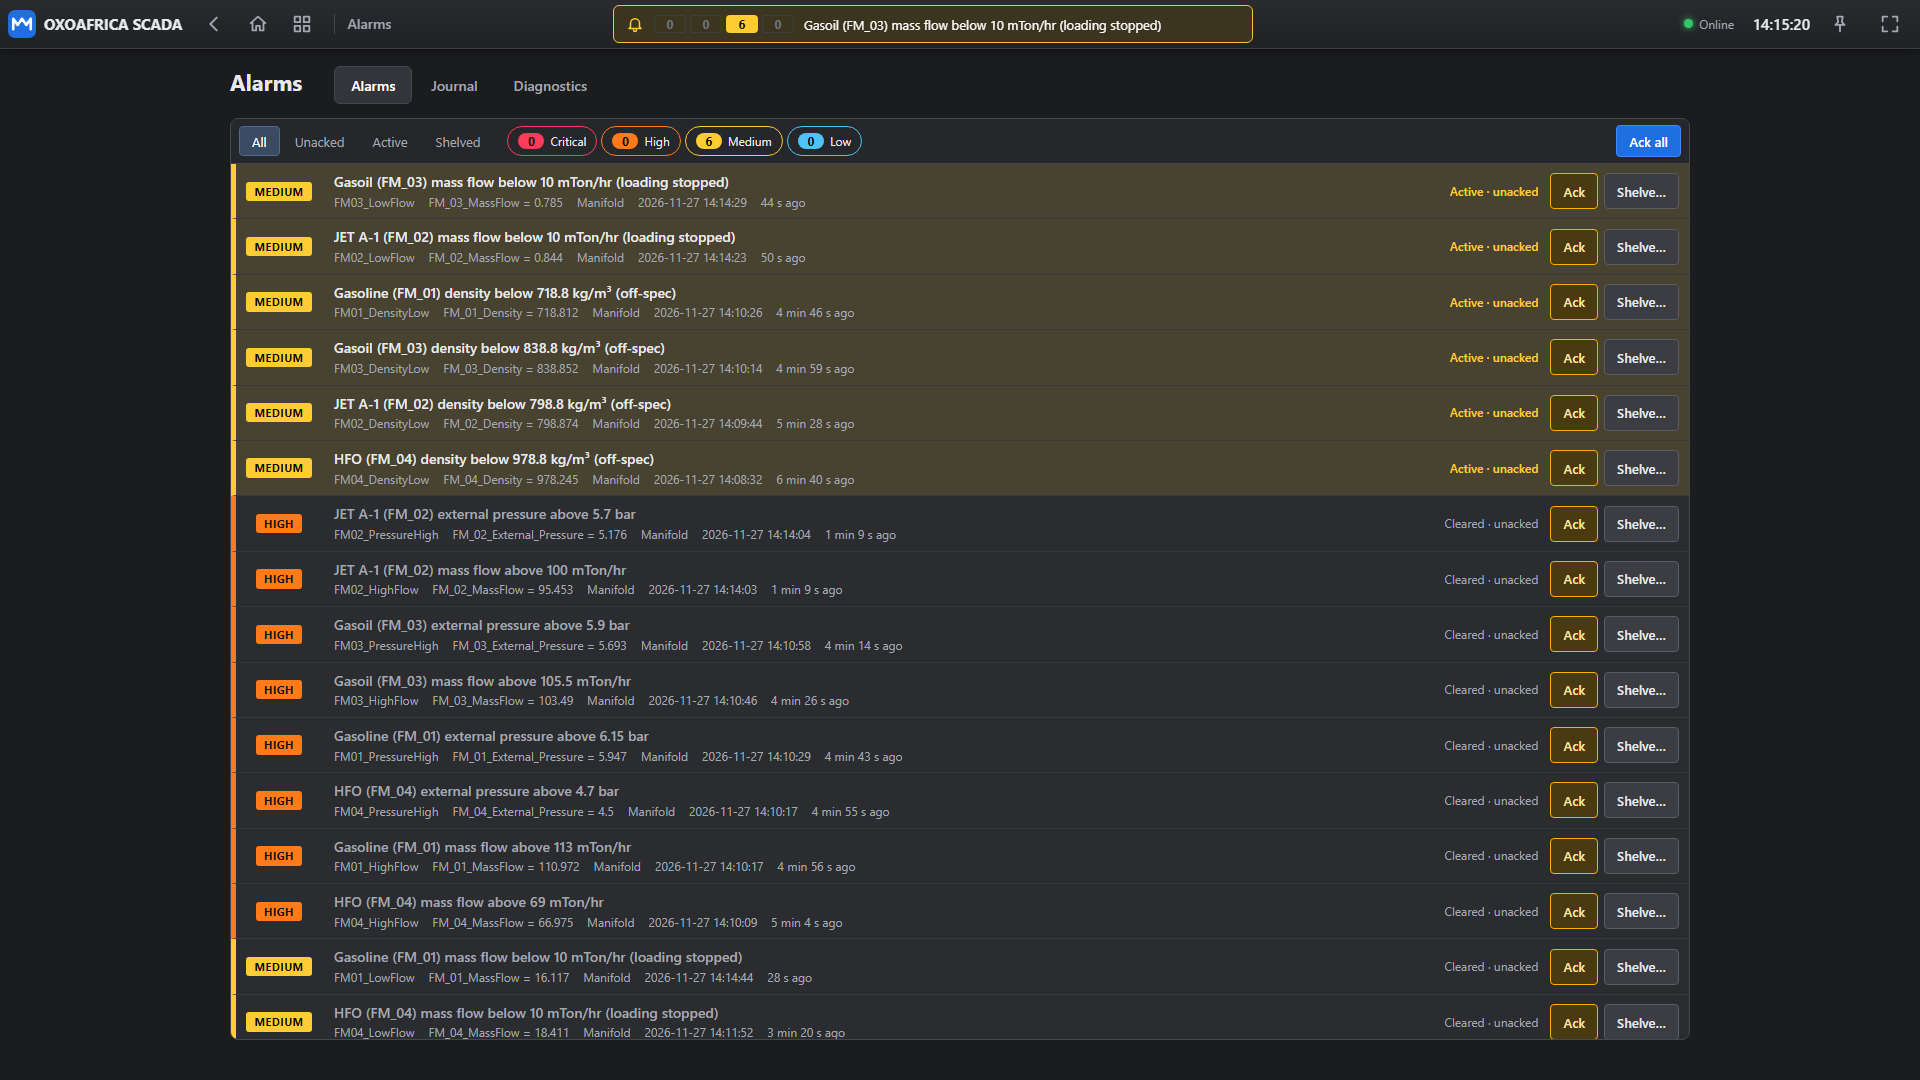
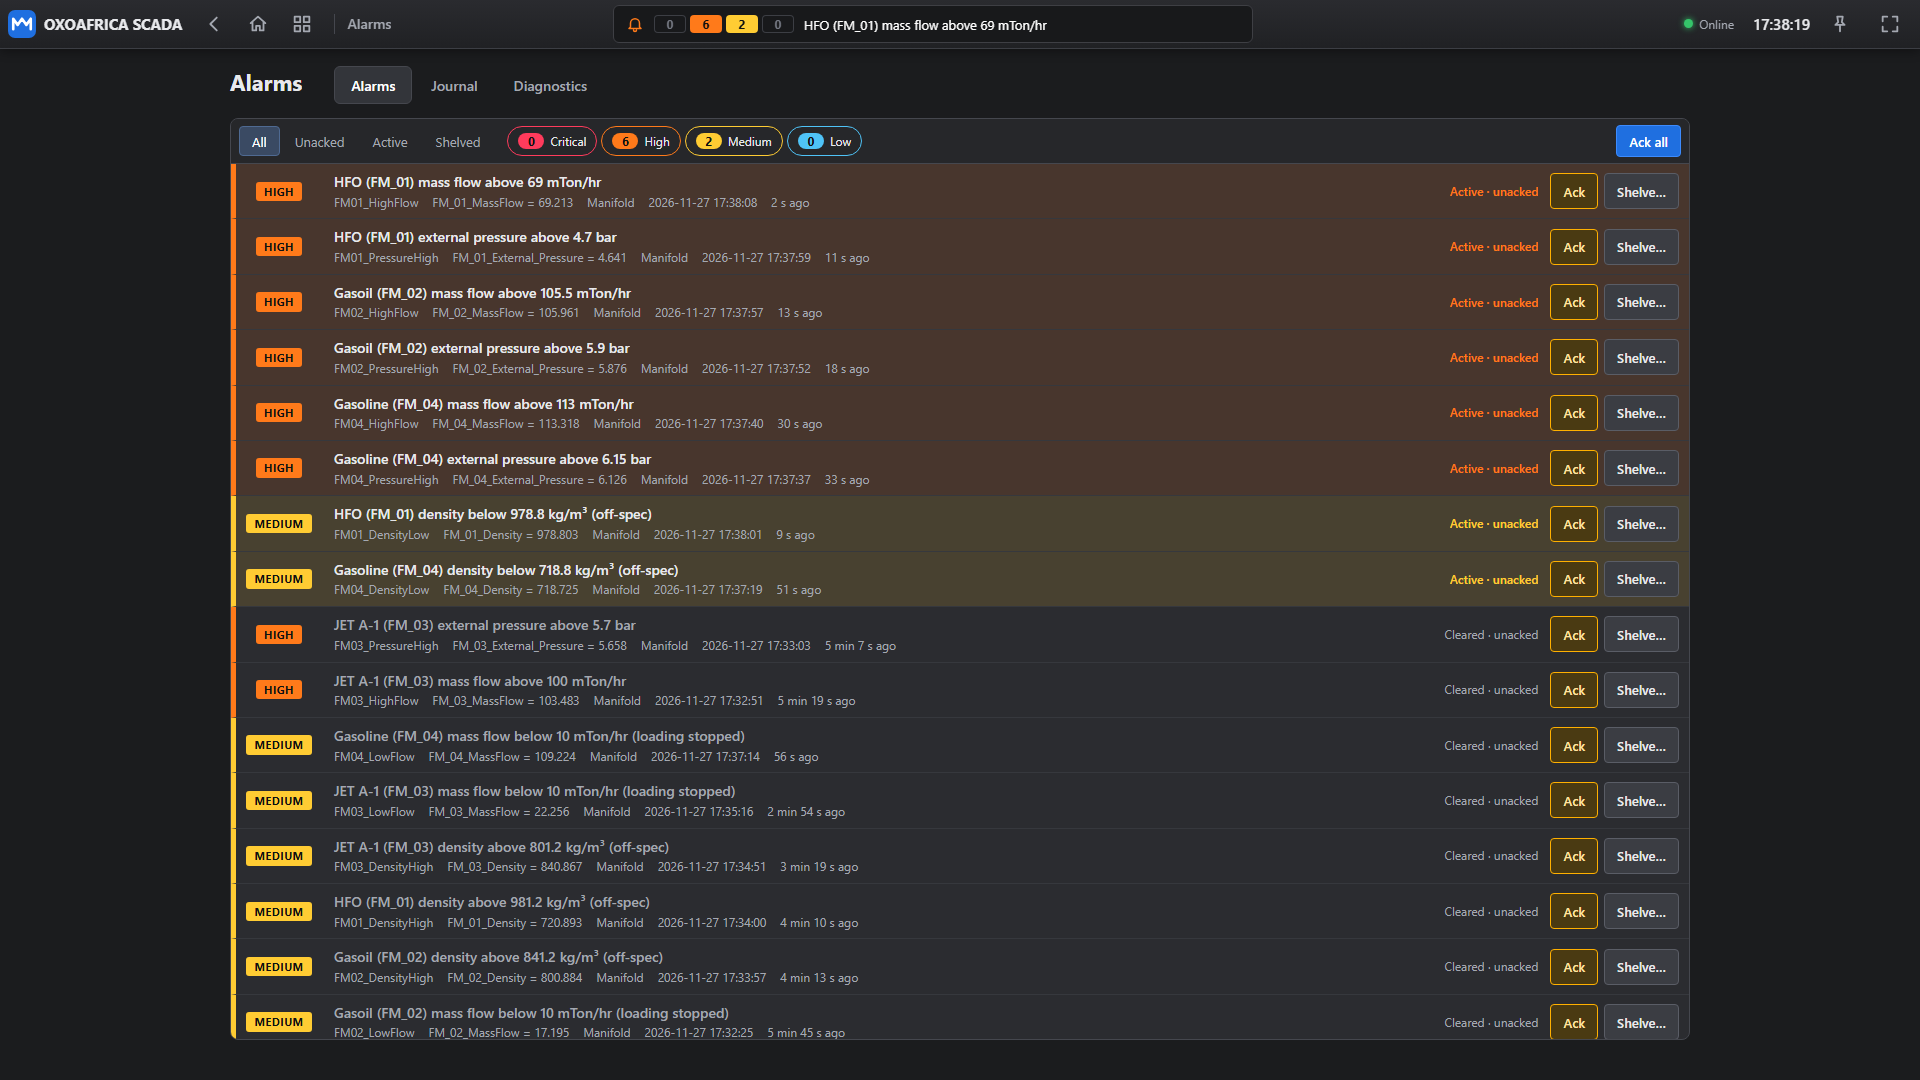
Use the project's meter numbering: FM_01 HFO … FM_04 Gasoline
The OXOAFRICA screens name the meters FM_01 HFO, FM_02 Gasoil, FM_03 JET A-1
and FM_04 Gasoline (meter buttons, panel titles, trend buttons). The demo
assumed the reverse.

- Revert b76be3f: the imported flow displays were already right.
- Manifold pipes and valves follow their product's own meter.
- Simulator products ordered by meter number; tests updated.
- Each product's alarms (limits, messages) moved to its meter.
- README tables and refreshed screenshots.

diff --git a/crates/sim/tests/driver_e2e.rs b/crates/sim/tests/driver_e2e.rs
@@ -115,9 +115,9 @@ async fn values_arrive_with_good_quality_and_exact_scaling() {
     assert_eq!(rig.get("Aux_Count").value, Value::Int(-70_000));
     assert_eq!(rig.get("Aux_Name").value, Value::Text("PETRO".into()));
 
-    // Simulated values: gasoline density on unit 1, decoded from a big-endian f32.
+    // Simulated values: HFO density on unit 1, decoded from a big-endian f32.
     let density = rig.get("FM_01_Density").value.as_f64().unwrap();
-    assert!((690.0..750.0).contains(&density), "density {density}");
+    assert!((950.0..1010.0).contains(&density), "density {density}");
     let sim_density = sim.read_tag("FM_01_Density").unwrap().as_f64().unwrap();
     assert!((density - sim_density).abs() < 2.0, "driver {density} vs sim {sim_density}");
     assert_eq!(rig.get("FM_01_START").value, Value::Bool(true));
@@ -230,10 +230,11 @@ async fn petrogas_sample_project_is_fully_simulated() {
     }
     eventually("every Petrogas tag good", || store.ids().all(|id| store.get(id).quality == Quality::Good)).await;
     let rho = |n: &str| store.get_by_name(n).unwrap().value.as_f64().unwrap();
-    assert!((rho("FM_01_Density") - 720.0).abs() < 30.0);
-    assert!((rho("FM_02_Density") - 800.0).abs() < 30.0);
-    assert!((rho("FM_03_Density") - 840.0).abs() < 30.0);
-    assert!((rho("FM_04_Density") - 980.0).abs() < 30.0);
+    // FM_01 HFO, FM_02 gasoil, FM_03 JET A-1, FM_04 gasoline (as the screens name them).
+    assert!((rho("FM_01_Density") - 980.0).abs() < 30.0);
+    assert!((rho("FM_02_Density") - 840.0).abs() < 30.0);
+    assert!((rho("FM_03_Density") - 800.0).abs() < 30.0);
+    assert!((rho("FM_04_Density") - 720.0).abs() < 30.0);
     let flow = rho("FM_01_MassFlow");
     let vr = rho("FM_01_Volume_Rate");
     assert!((0.0..=150.0).contains(&flow));

diff --git a/crates/sim/src/process.rs b/crates/sim/src/process.rs
@@ -39,9 +39,10 @@ pub enum Product {
 }
 
 impl Product {
-    const BY_METER: [Product; 4] = [Product::Gasoline, Product::Jet, Product::Gasoil, Product::Hfo];
+    // The OXOAFRICA meters, as the screens name them (FM_01 panel "HFO" …).
+    const BY_METER: [Product; 4] = [Product::Hfo, Product::Gasoil, Product::Jet, Product::Gasoline];
 
-    /// Product of meter number `n` (FM_01 → gasoline … FM_04 → HFO).
+    /// Product of meter number `n` (FM_01 → HFO, FM_02 → gasoil, FM_03 → JET A-1, FM_04 → gasoline).
     pub fn for_meter(n: u32) -> Product {
         Self::BY_METER[(n.max(1) as usize - 1) % Self::BY_METER.len()]
     }
@@ -297,10 +298,10 @@ mod tests {
 
     #[test]
     fn products_by_meter_number() {
-        assert_eq!(Product::for_meter(1), Product::Gasoline);
-        assert_eq!(Product::for_meter(2), Product::Jet);
-        assert_eq!(Product::for_meter(3), Product::Gasoil);
-        assert_eq!(Product::for_meter(4), Product::Hfo);
+        assert_eq!(Product::for_meter(1), Product::Hfo);
+        assert_eq!(Product::for_meter(2), Product::Gasoil);
+        assert_eq!(Product::for_meter(3), Product::Jet);
+        assert_eq!(Product::for_meter(4), Product::Gasoline);
         assert_eq!(Product::from_name("HFO_Meter"), Some(Product::Hfo));
     }
 

diff --git a/crates/sim/src/image.rs b/crates/sim/src/image.rs
@@ -99,7 +99,7 @@ impl SimState {
         }
 
         // One meter per unit id; the product comes from the meter number in the
-        // tag names (FM_01 → gasoline …), a product word, or the station order.
+        // tag names (FM_01 → HFO …), a product word, or the station order.
         let mut meter_of_unit: BTreeMap<u8, usize> = BTreeMap::new();
         let mut products: Vec<Option<Product>> = Vec::new();
         let mut bindings = Vec::new();
@@ -404,8 +404,9 @@ mod tests {
     #[test]
     fn densities_follow_the_product_of_each_meter() {
         let s = SimState::new(&project());
-        assert!((f(s.read_tag("FM_01_Density")) - 720.0).abs() < 15.0);
-        assert!((f(s.read_tag("FM_04_Density")) - 980.0).abs() < 25.0);
+        // FM_01 is HFO and FM_04 gasoline, as the OXOAFRICA screens name them.
+        assert!((f(s.read_tag("FM_01_Density")) - 980.0).abs() < 25.0);
+        assert!((f(s.read_tag("FM_04_Density")) - 720.0).abs() < 15.0);
         assert_eq!(s.unit_ids(), vec![1, 4]);
     }
 

diff --git a/crates/sim/src/lib.rs b/crates/sim/src/lib.rs
@@ -3,8 +3,8 @@
 //! Serves every station of a project's modbus-tcp drivers on one socket and
 //! answers for each unit id, with plausible values for a petroleum loading
 //! manifold (see [`process`]): mass flow 0–150 mTon/hr with slow waves, noise and
-//! occasional stops; density by product (FM_01..FM_04 → gasoline, jet, gasoil,
-//! HFO); temperature 20–45 °C; volume rate = mass flow × 1000 / density (m³/hr);
+//! occasional stops; density by product (FM_01..FM_04 → HFO, gasoil, JET A-1,
+//! gasoline); temperature 20–45 °C; volume rate = mass flow × 1000 / density (m³/hr);
 //! totals and inventories integrating the flow; external pressure 2–8 bar.
 //! START coils gate the totalizers; writing `true` to a Reset_Total coil zeroes
 //! that meter's totals. Anything a client writes persists (the simulation stops

diff --git a/crates/rt/tests/e2e.rs b/crates/rt/tests/e2e.rs
@@ -242,7 +242,7 @@ async fn serves_the_bundle_live_values_and_writes_coils() {
 
     let values = wait_good(&mut ws, &["FM_01_MassFlow", "FM_01_Density", "FM_01_START"]).await;
     let density = values["FM_01_Density"]["v"].as_f64().unwrap();
-    assert!((700.0..740.0).contains(&density), "gasoline density {density}");
+    assert!((950.0..1010.0).contains(&density), "HFO density {density}");
 
     // Coil round trip: write over the WebSocket, then see the device's value come back.
     let before = values["FM_01_START"]["v"].as_bool().unwrap();

diff --git a/demo/README.md b/demo/README.md
@@ -43,20 +43,21 @@ as in the original project).
 ### 2. `alarms.toml`: 24 alarms on the four loading meters
 
 The Movicon project defines no alarms. The demo adds six per meter
-(FM_01 Gasoline, FM_02 JET A-1, FM_03 Gasoil, FM_04 HFO), all in area
+(FM_01 HFO, FM_02 Gasoil, FM_03 JET A-1, FM_04 Gasoline, as the project's meter
+buttons and panels name them), all in area
 `Manifold`:
 
 | Alarm | Condition | Severity | Delay | Deadband |
 |---|---|---|---|---|
-| `FM0n_HighFlow` | mass flow above 113 / 100 / 105.5 / 69 mTon/hr | high | 3 s | 2 |
+| `FM0n_HighFlow` | mass flow above 69 / 105.5 / 100 / 113 mTon/hr | high | 3 s | 2 |
 | `FM0n_LowFlow` | mass flow below 10 mTon/hr (loading stopped) | medium | 10 s | 5 |
 | `FM0n_DensityHigh` | density above ρ15 + 1.2 kg/m³ (off-spec) | medium | 5 s | 0.3 |
 | `FM0n_DensityLow` | density below ρ15 − 1.2 kg/m³ (off-spec) | medium | 5 s | 0.3 |
 | `FM0n_CommLoss` | mass flow tag has bad quality (meter not answering) | critical | 2 s | – |
-| `FM0n_PressureHigh` | external pressure above 6.15 / 5.7 / 5.9 / 4.7 bar | high | 3 s | 0.2 |
+| `FM0n_PressureHigh` | external pressure above 4.7 / 5.9 / 5.7 / 6.15 bar | high | 3 s | 0.2 |
 
-ρ15 is the product density at 15 °C used by the simulator: 720, 800, 840 and
-980 kg/m³.
+ρ15 is the product density at 15 °C used by the simulator: 980, 840, 800 and
+720 kg/m³ (FM_01 to FM_04).
 
 The limits are tuned to the simulator (`crates/sim/src/process.rs`) so the demo
 raises and clears alarms by itself:
@@ -93,17 +94,17 @@ the project has an empty `FM_05` panel for it. The demo removes them:
 The simulator, symbol map and studio Symbol Library know four products:
 Gasoline, JET A-1, Gasoil and HFO.
 
-### 4. Product flow in the Manifold pipes, valves and displays
+### 4. Product flow in the Manifold pipes and valves
 
 Each pipe on Manifold is bound to the mass flow of the meter it belongs to and
 animates in that product's colour while the meter's mass flow is above zero:
 
 | Product | Tag | Colour | Pipes |
 |---|---|---|---|
-| Gasoline | `FM_01_MassFlow` | `#FF4D4D` | `Pipeline3`, `Pipeline`, `Pipeline07`, `Pipeline06`, `Pipeline1`, `Pipeline05`, `Pipeline04`, `Pipeline12` |
-| JET A-1 | `FM_02_MassFlow` | `#F4F4F4` | `Pipeline2`, `Pipeline6`, `Pipeline8` |
-| Gasoil | `FM_03_MassFlow` | `#555555` | `Pipeline4`, `Pipeline7`, `Pipeline11`, `Pipeline03` |
-| HFO | `FM_04_MassFlow` | `#151515` | `Pipeline5`, `Pipeline02` |
+| Gasoline | `FM_04_MassFlow` | `#FF4D4D` | `Pipeline3`, `Pipeline`, `Pipeline07`, `Pipeline06`, `Pipeline1`, `Pipeline05`, `Pipeline04`, `Pipeline12` |
+| JET A-1 | `FM_03_MassFlow` | `#F4F4F4` | `Pipeline2`, `Pipeline6`, `Pipeline8` |
+| Gasoil | `FM_02_MassFlow` | `#555555` | `Pipeline4`, `Pipeline7`, `Pipeline11`, `Pipeline03` |
+| HFO | `FM_01_MassFlow` | `#151515` | `Pipeline5`, `Pipeline02` |
 
 Product moves from bottom to top: from the lines at the bottom left through the
 meter and up the risers (the direction the pipes are drawn; only the horizontal
@@ -111,13 +112,7 @@ upper gasoline header `Pipeline1` has `flow_reverse = true`). With no flow
 (mass flow, and so volume flow, at zero, or bad quality) a pipe shows no dashes. The JET A-1
 bypass loop (`Pipeline10`, `Pipeline9`, `Pipeline08`) is not animated because
 valve positions are not known. The imported binding of the gasoline lower header
-to `FM_04_START` was replaced.
-
-The four flow displays beside the meters were bound to the wrong meters in the
-original project (the display by Gasoline showed HFO, by JET A-1 Gasoil, by Gasoil
-JET A-1, and by HFO Gasoline's volume rate under a mTon/hr unit). Each now shows
-its own meter's mass flow: `EditDisplay5` `FM_01_MassFlow`, `EditDisplay2`
-`FM_02_MassFlow`, `EditDisplay3` `FM_03_MassFlow`, `EditDisplay4` `FM_04_MassFlow`.
+to `FM_04_START` (the gasoline meter's run flag) was replaced by its mass flow.
 
 The hand valves on each product's line follow the same flow
 (`symbol = "movicon:Symbol952?open_above=0"` plus the line's tag): green while
